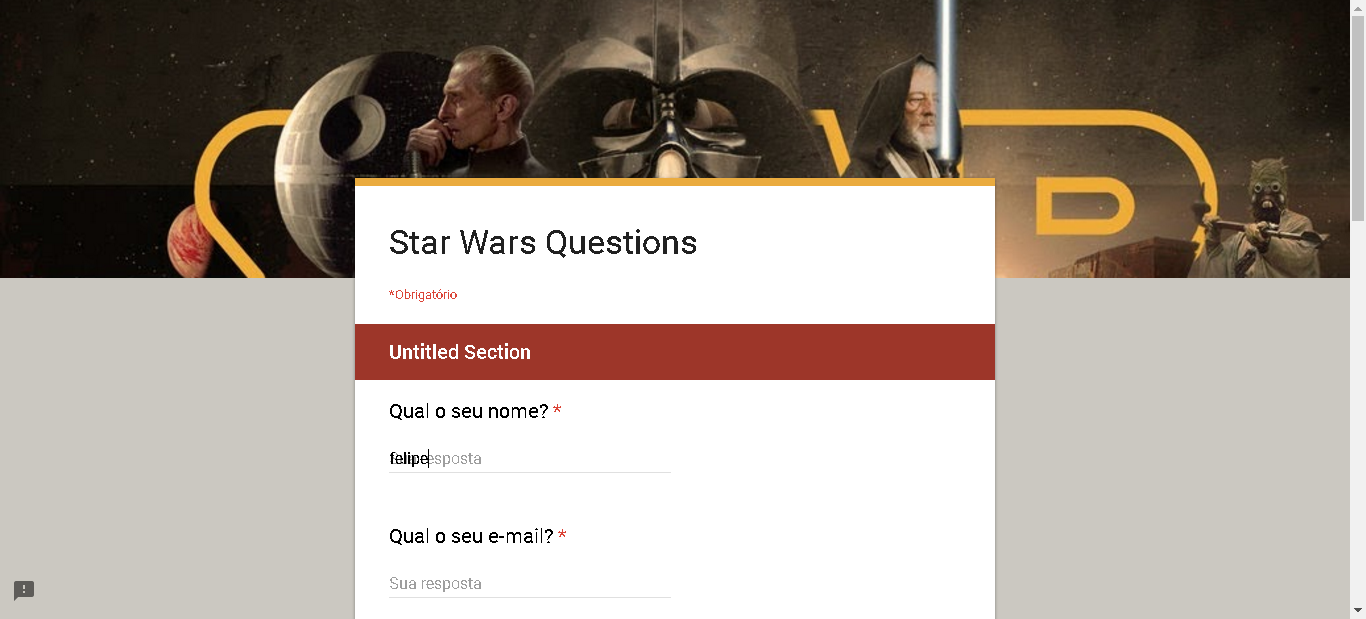
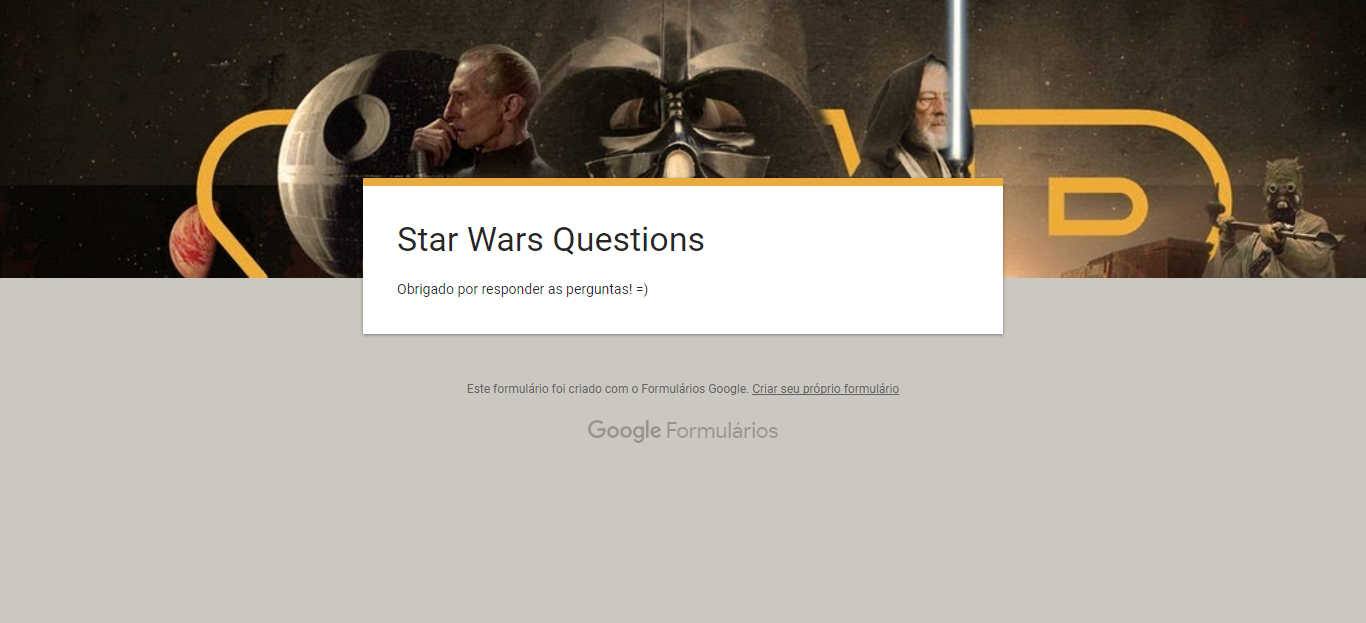
metodos

diff --git a/features/methods/method.rb b/features/methods/method.rb
@@ -4,9 +4,22 @@ class FormularioCompletoMethod < SitePrism::Page
 
 		@Cadastro = Cadastro.new
 		@Cadastro.proxima.click
-		@Cadastro.nome.set 'felipe'
-
-		
+		@Cadastro.nome.set BlaBla::Pessoa.nome
+		@Cadastro.email.set Faker::Internet.email
+		@Cadastro.like_yes.click
+		@Cadastro.ep_um.click
+		@Cadastro.ep_dois.click
+		@Cadastro.ep_tres.click
+		@Cadastro.ep_quatro.click
+		@Cadastro.ep_cinco.click
+		@Cadastro.ep_seis.click
+		@Cadastro.ep_sete.click
+		@Cadastro.outro_filme.click
+		@Cadastro.outro_qual.set 'O novo'
+		@Cadastro.personagem.set Faker::StarWars.character
+		@Cadastro.combo_box.click
+		@Cadastro.combo_yes.click
+		@Cadastro.enviar.click
 	end
 
 end	

diff --git a/features/pages/cadastro.rb b/features/pages/cadastro.rb
@@ -19,5 +19,5 @@ class Cadastro < SitePrism::Page
     element :combo_yes, :xpath , '//*[@id="mG61Hd"]/div/div[2]/div[2]/div[7]/div[2]/div[2]/div[3]'
     element :combo_no, :xpath , '//*[@id="mG61Hd"]/div/div[2]/div[2]/div[7]/div[2]/div[2]/div[4]/content'
     element :voltar, :xpath, '//*[@id="mG61Hd"]/div/div[2]/div[3]/div[1]/div/div[1]/content/span'
-    element :salvar, :xpath, '//*[@id="mG61Hd"]/div/div[2]/div[3]/div[1]/div/div[2]/content/span'
+    element :enviar, :xpath, '//*[@id="mG61Hd"]/div/div[2]/div[3]/div[1]/div/div[2]/content/span'
 end

diff --git a/features/support/env.rb b/features/support/env.rb
@@ -5,7 +5,7 @@ require 'capybara/dsl'
 require 'pry'
 require 'site_prism'
 require 'faker'
-#require 'blabla'
+require	'blabla'
 
 include Capybara::DSL
 
